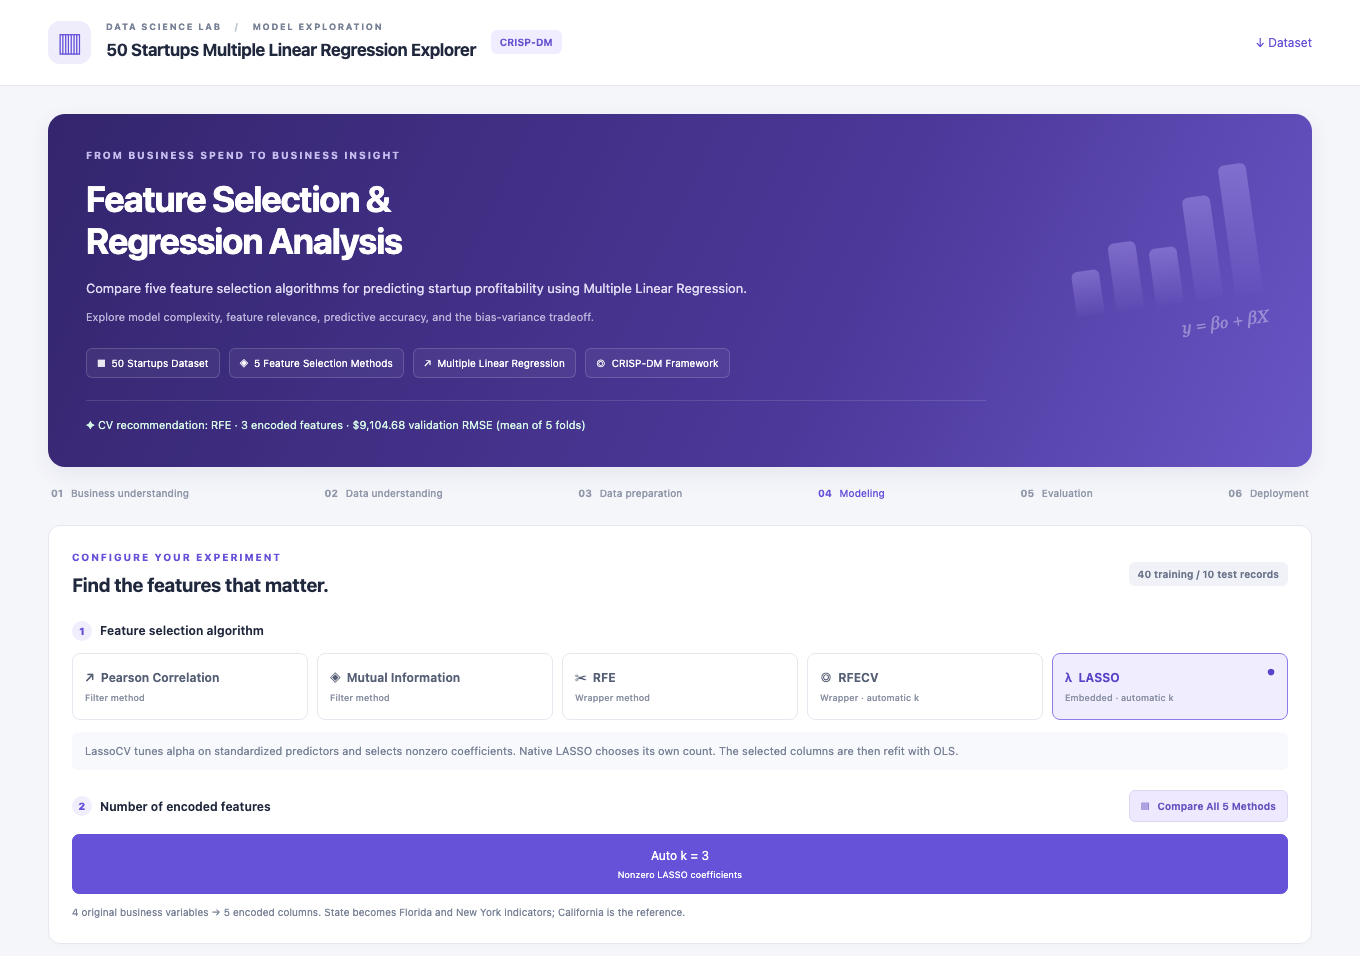
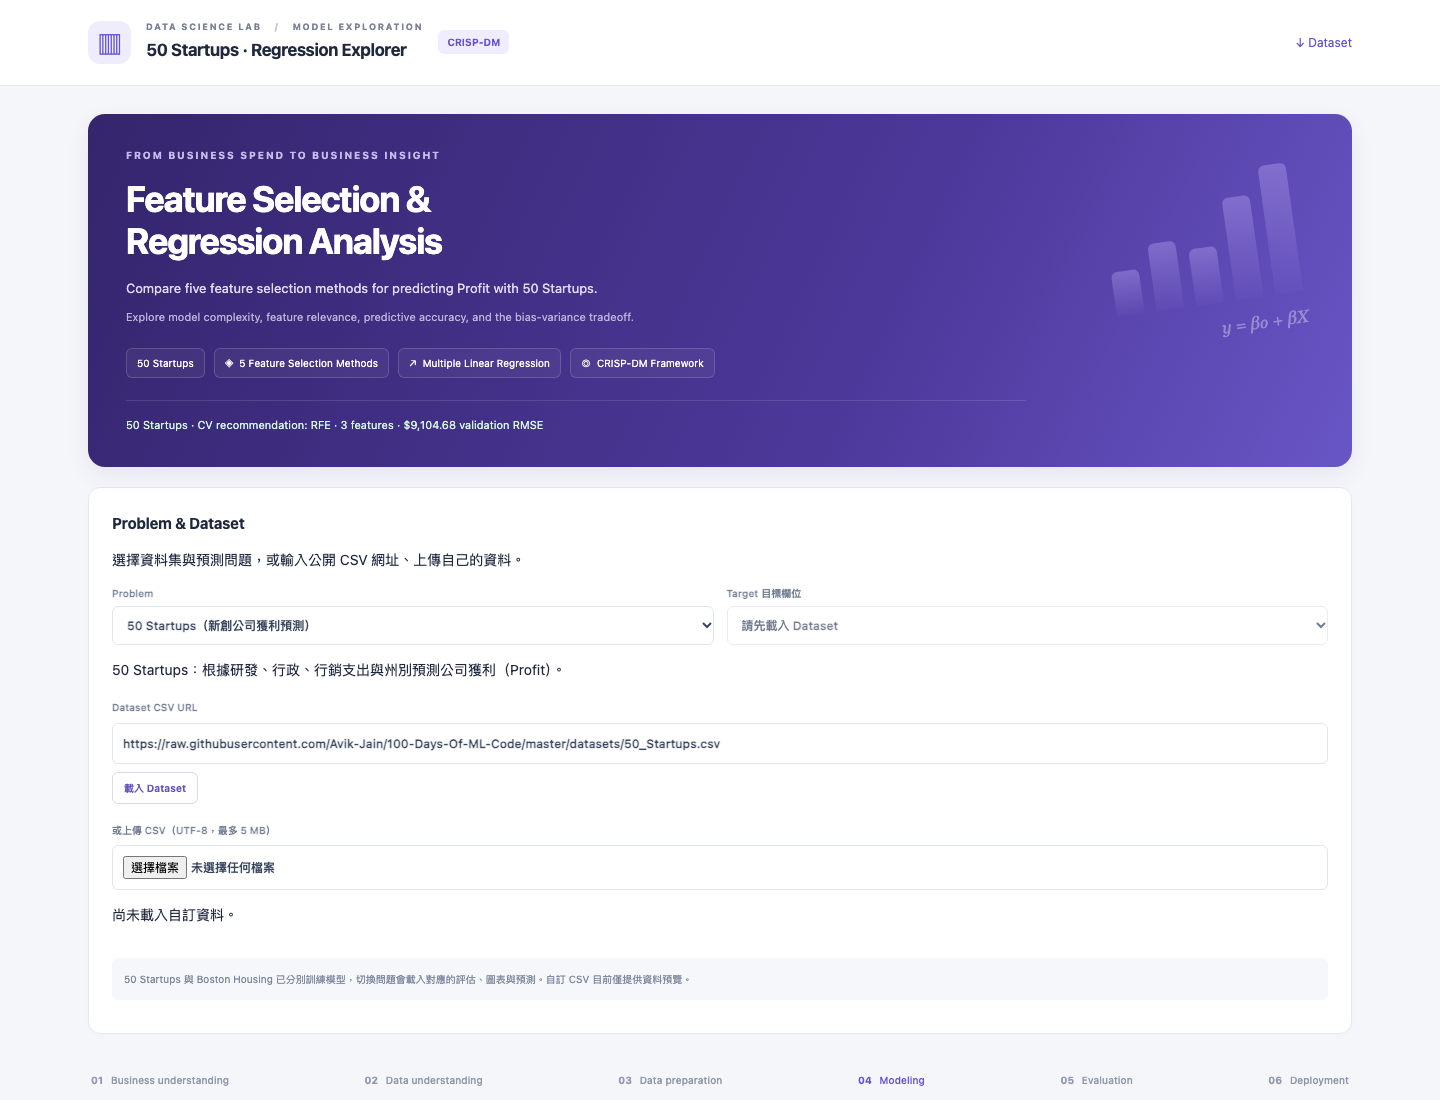
Simplify README to demo link and refresh live screenshots

diff --git a/README.md b/README.md
@@ -1,86 +1,13 @@
-# 50 Startups & Boston Housing Regression Explorer
+# 線上 Demo
 
-以 **CRISP-DM** 為架構的互動式多元線性回歸儀表板，支援 50 Startups 與 Boston Housing 資料集，比較五種特徵選擇方法，探索新創公司獲利與房價預測。
-
-## 線上 Demo
-
-**👉 [開啟互動展示網站](https://wujin57.github.io/AIOT-DIC2/)**
-
-https://wujin57.github.io/AIOT-DIC2/
-
-免安裝，直接透過瀏覽器操作。新版支援 **50 Startups 獲利預測**、**Boston Housing 房價預測**，以及自訂 CSV 網址／檔案預覽。
-
-在 **Problem** 下拉選單切換資料集，即可查看各自訓練的模型、評估圖表與即時預測。
+[https://wujin57.github.io/AIOT-DIC2/](https://wujin57.github.io/AIOT-DIC2/)
 
 ## Demo 畫面
 
-以下為 50 Startups 範例畫面；新版 Demo 另提供 Boston Housing 切換與房價預測。
+![50 Startups 與資料集選單](docs/images/01-overview.png)
 
-### 1. 特徵選擇與模型設定
+![Boston Housing 資料集](docs/images/02-boston-overview.png)
 
-![首頁與特徵選擇控制：LASSO 自動選擇三個特徵](docs/images/01-overview.png)
+![Boston Housing 模型比較與評估](docs/images/03-boston-comparison.png)
 
-比較 **Pearson Correlation、Mutual Information、RFE、RFECV、LASSO** 五種方法。支援固定特徵數的演算法在 50 Startups 可選擇 k = 1–5、Boston Housing 可選擇 k = 1–13；RFECV 與 LASSO 使用自動選擇的特徵數。
-
-### 2. 方法比較與模型評估
-
-![五種方法比較表、模型評估指標及特徵數與表現曲線](docs/images/02-comparison.png)
-
-點選 **Compare All 5 Methods**，並排查看各方法的選取特徵、CV RMSE、Test RMSE 與 Test R²。透過驗證誤差與解釋變異曲線，觀察模型複雜度和預測表現的關係。
-
-### 3. 模型係數與即時獲利預測
-
-![迴歸係數、即時獲利預測、實際與預測散佈圖及殘差診斷](docs/images/03-prediction.png)
-
-查看迴歸係數，輸入研發支出、行政支出、行銷支出及州別，即時計算預估獲利。搭配實際值與預測值散佈圖、殘差診斷圖，檢視模型誤差。
-
-### 4. 殘差檢視與資料集探索
-
-![測試資料殘差表與資料集概覽](docs/images/04-residuals-dataset.png)
-
-查看 10 筆測試資料的實際獲利、預測獲利、殘差及絕對誤差，並下載殘差 CSV、原始資料與模型 JSON。資料集包含 50 筆記錄，4 個原始預測變數經編碼後形成 5 個模型欄位。
-
-## 快速體驗
-
-1. 開啟 [Demo 網站](https://wujin57.github.io/AIOT-DIC2/)。
-2. 在 **Problem** 選擇 **50 Startups** 或 **Boston Housing**，再選擇特徵選擇演算法與特徵數。
-3. 點選 **Compare All 5 Methods** 比較結果。
-4. 在 **Live Profit predictor** 或 **Live medv predictor** 輸入特徵，觀察獲利或房價預測（Boston 單位為千美元）。
-5. 查看下方的預測圖、殘差表與資料集。
-
-## 專案資訊
-
-- **資料集：** [50_Startups.csv](https://raw.githubusercontent.com/Avik-Jain/100-Days-Of-ML-Code/master/datasets/50_Startups.csv)
-- **模型：** scikit-learn `LinearRegression`，特徵選擇後重新擬合 OLS。
-- **評估：** 80/20 訓練測試切分、`random_state=42`、訓練資料上的 5-fold cross-validation。
-- **技術：** Python、pandas、NumPy、scikit-learn、HTML、CSS、JavaScript、Chart.js。
-- **部署：** GitHub Pages，推送到 `main` 後由官方 Actions 自動部署。
-
-模型係數代表關聯而非因果；預估獲利是模型估計，並非保證。
-
-## 自訂 Problem 與 Dataset
-
-首頁的 **Problem & Dataset** 下拉選單提供 **50 Startups（新創公司獲利預測）**、**Boston Housing（房價預測）** 與 **自訂 Dataset**。
-切換預設問題會自動填入 CSV 網址、載入資料預覽，並選取對應的目標欄位（Profit 或 medv）。
-貼上公開 CSV 網址並按「載入 Dataset」，或上傳本機 UTF-8 CSV，即可查看資料列數、欄位數與前 20 列，並選擇 Target 目標欄位。
-網址來源須允許跨來源存取（CORS）；若無法下載，可改用檔案上傳。支援最多 5 MB、10,000 列、2–100 欄。
-
-50 Startups 與 Boston Housing 已各自訓練模型。切換預設問題時，評估、特徵選擇、係數、圖表、預測表單與下載內容都會切換至對應資料集。自訂 CSV 目前僅提供預覽，會隱藏預設模型結果。
-
-Boston 使用 13 個特徵、目標 medv（千美元），以固定 seed=42 切分 404 筆訓練與 102 筆測試資料。五種特徵選擇方法共產生 41 組模型，採訓練集五折交叉驗證推薦模型。網站載入由 Python 預先訓練的模型，不在瀏覽器內重新擬合。
-
-重新訓練 Boston：
-
-```sh
-.venv/bin/python scripts/train_models.py --problem boston
-```
-
-可加上 `--download` 更新 CSV；不加時會使用已保存的資料。
-
-本機啟動：
-
-```sh
-python3 -m http.server 8000 --directory dashboard
-```
-
-開啟 http://localhost:8000 即可操作。
+![Boston Housing 模型係數與房價預測](docs/images/04-boston-prediction.png)
